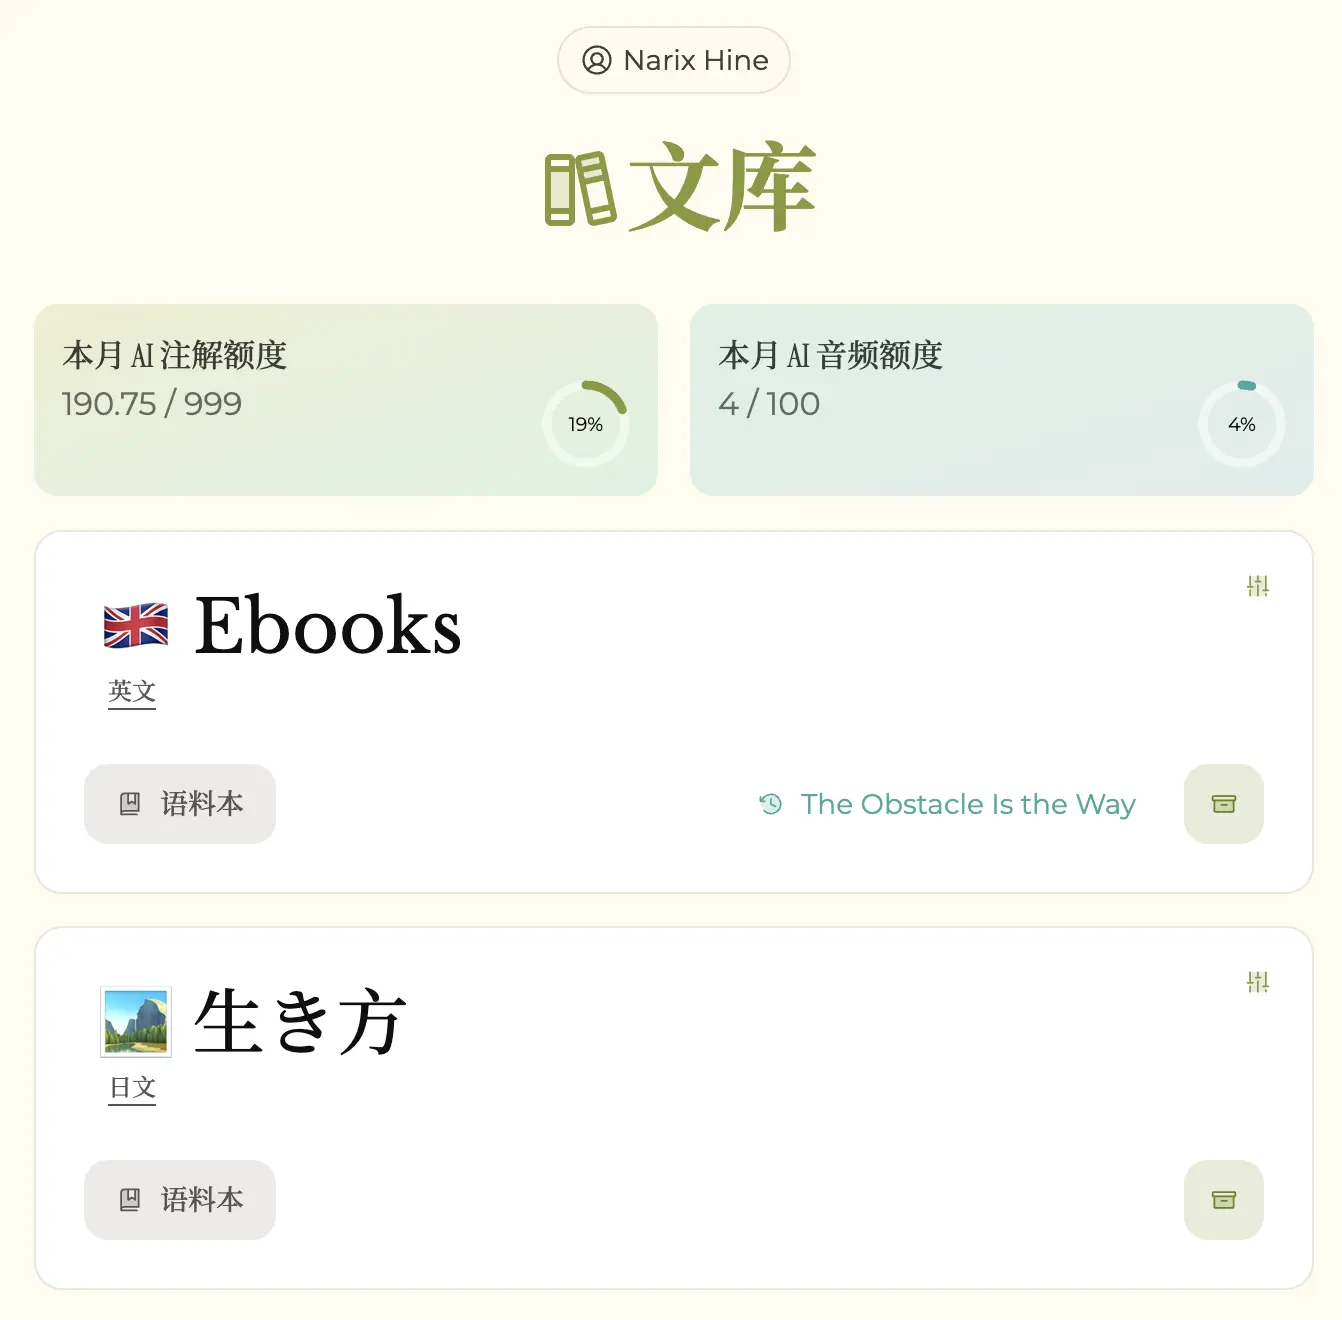
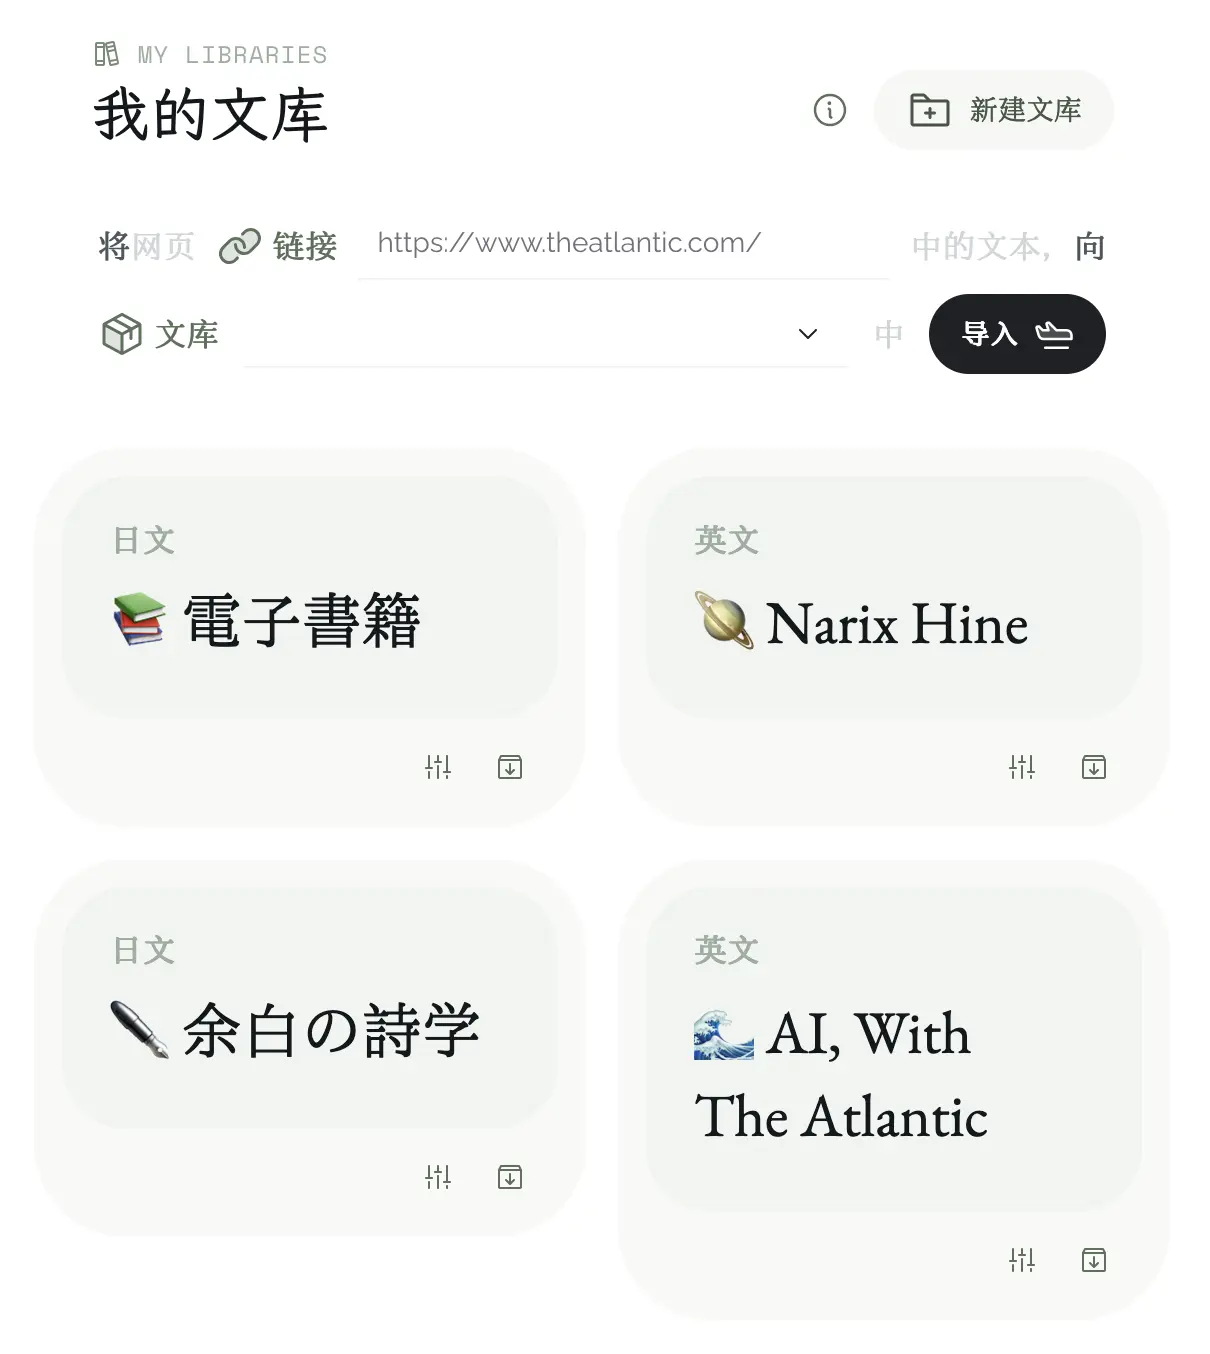
docs: update guide and prevent EPUB location jumps
- Refresh guide content and screenshots
- Avoid redisplaying already reported EPUB locations

diff --git a/packages/ui/src/epub-reader/index.tsx b/packages/ui/src/epub-reader/index.tsx
@@ -276,6 +276,10 @@ export default function EpubReader({
     onLocationChangeRef.current = onLocationChange
     const onRenditionRef = useRef(onRendition)
     onRenditionRef.current = onRendition
+    // A relocated event updates the controlled location prop. Do not display
+    // that same location again: epub.js may re-resolve a split-page CFI to the
+    // adjacent page when display() is called during an active pagination move.
+    const lastReportedLocationRef = useRef<string | null>(null)
 
     useEffect(() => {
         if (!viewerRef.current) return
@@ -305,6 +309,7 @@ export default function EpubReader({
         })
 
         renditionRef.current = rendition
+        lastReportedLocationRef.current = null
 
         book.ready.then(() => {
             setToc(book.navigation.toc)
@@ -325,6 +330,7 @@ export default function EpubReader({
                 setCurrentHref(loc.start.href)
                 setCurrentPage(loc.start.displayed.page)
                 setTotalPages(loc.start.displayed.total)
+                lastReportedLocationRef.current = loc.start.cfi
                 onLocationChangeRef.current(loc.start.cfi)
             },
         )
@@ -338,9 +344,15 @@ export default function EpubReader({
     }, [url])
 
     useEffect(() => {
-        if (renditionRef.current && location) {
-            renditionRef.current.display(location.toString())
+        if (!renditionRef.current || !location) return
+
+        const nextLocation = location.toString()
+        if (nextLocation === lastReportedLocationRef.current) {
+            lastReportedLocationRef.current = null
+            return
         }
+
+        renditionRef.current.display(nextLocation)
     }, [location])
 
     // Auto-expand ToC parents of the active chapter
